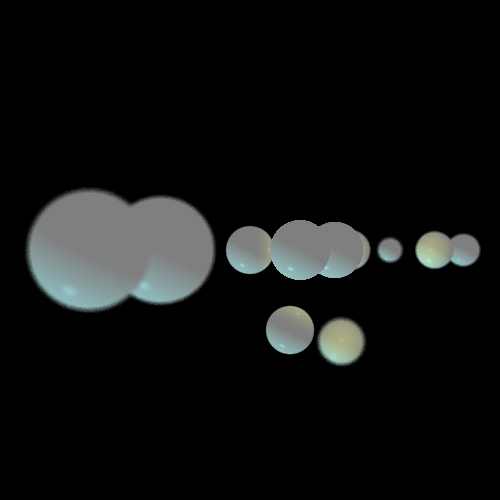
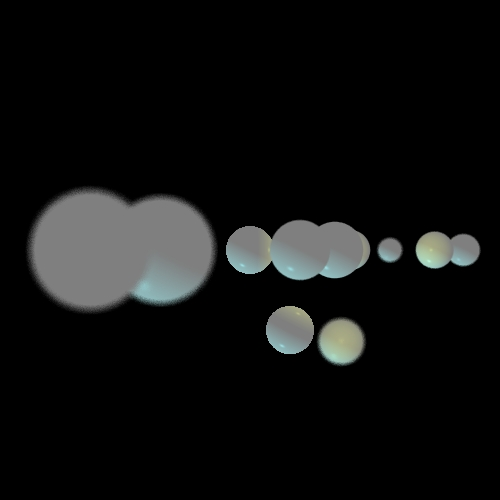
DOF improving image DOF

diff --git a/src/elements/Camera.java b/src/elements/Camera.java
@@ -2,7 +2,6 @@ package elements;
 
 import primitives.*;
 import static primitives.Util.*;
-
 import java.util.LinkedList;
 import java.util.List;
 import java.util.Random;
@@ -24,7 +23,9 @@ public class Camera {
 	private static final Random RAND = new Random();
 
 	/**
-	 * ctor for camera get the location and make the right vector.
+	 * ctor for camera get the location of the camera, get the toward vector(vTo)
+	 * and vUp and create the vRight vector.there is no Depth of filed effect if we
+	 * call to this ctor .
 	 * 
 	 * @param p0  Camera location
 	 * @param vTo The direction to the view plane
@@ -35,14 +36,16 @@ public class Camera {
 	}
 
 	/**
-	 * ctor for camera get the location and make the right vector.
+	 * ctor for camera get the location of the camera, get the toward vector(vTo)
+	 * and vUp and create the vRight vector.and get the parameter to Depth of filed
+	 * effect.
 	 * 
 	 * @param p0            Camera location
 	 * @param vTo           The direction to the view plane
 	 * @param vUp           direction to up
-	 * @param focalDistance
-	 * @param aperture
-	 * @param numOfRays
+	 * @param focalDistance distance of focal plane from the view plane
+	 * @param aperture      the size of aperture (zamzam in Hebrew)
+	 * @param numOfRays     to generate beam of rays
 	 */
 	public Camera(Point3D p0, Vector vTo, Vector vUp, double focalDistance, double aperture, int numOfRays) {
 		// checking if vTo orthogonal to vUp
@@ -57,57 +60,83 @@ public class Camera {
 		this.numOfRays = numOfRays;
 	}
 
-	public List<Ray> constructbeamOfRaysThroughPixels(int nX, int nY, int j, int i, double screenDistance,
+	/**
+	 * generate a beam of rays in each pixel,all the rays are from the pixel in view
+	 * plane to focal point.
+	 * 
+	 * @param nX             number of pixels in axis x.
+	 * @param nY             number of pixels in axis y.
+	 * @param j              the pixel in y axis.
+	 * @param i              the pixel in x axis.
+	 * @param screenDistance the distance of the view plane from camera.
+	 * @param screenWidth    the width of screen.
+	 * @param screenHeight   the height of screen.
+	 * 
+	 * @return list of rays that start at the view plane to the focal points.
+	 */
+	public List<Ray> constructBeamOfRaysThroughPixels(int nX, int nY, int j, int i, double screenDistance,
 			double screenWidth, double screenHeight) {
 		List<Ray> result = new LinkedList<Ray>();
-		Point3D pij = getViewPlanePoint(nX, nY, j, i, screenDistance*0.5, screenWidth*0.5, screenHeight*0.5);
+		Point3D pij;// the point in pixel i,j in the view plane.
+		if (numOfRays == 1) {
+			// there is no DOF effect so we want the rays start before view plane.
+			pij = getViewPlanePoint(nX, nY, j, i, screenDistance * 0.5, screenWidth * 0.5, screenHeight * 0.5);
+		} else {
+			// there is DOF.
+			pij = getViewPlanePoint(nX, nY, j, i, screenDistance, screenWidth, screenHeight);
+		}
+		// the direction from camera to pixel i,j.
 		Vector vToFocal = pij.subtract(p0).normalize();
 		// add to list the ray through pixel i,j from view plane
-		result.add(new Ray(pij, vToFocal));
-		if (numOfRays <= 1 || Util.isZero(aperture))
+		result.add(new Ray(pij, vToFocal));// this is the central ray throw the pixel that start at view plane.
+		if (numOfRays == 1 || Util.isZero(aperture))// there is no DOF effect
 			return result;
-		// to create the focal plane "plane" and not circular we divide in the cosine
+		// to create plane focal and not domed, we divide in the cosine
 		// angle (dotProfuct) to increase the distance.
 		Point3D focalPoint = pij.add(vToFocal.scale(focalDistance / vTo.dotProduct(vToFocal)));
+		// k start from 1. the first ray is already concluded
 		for (int k = 1; k < numOfRays; k++) {
-			Point3D randPointVp = randomPoint(pij);
+			Point3D randPointVp = randomPoint(pij);// random point on the view plane
 			result.add(new Ray(randPointVp, focalPoint.subtract(randPointVp)));
 		}
 		return result;
 	}
 
 	/**
+	 * The function calculate the point on the view plane at pixel j,i.
 	 * 
-	 * @param nX
-	 * @param nY
-	 * @param j
-	 * @param i
-	 * @param screenDistance
-	 * @param screenWidth
-	 * @param screenHeight
+	 * @param nX             number of pixels in axis x.
+	 * @param nY             number of pixels in axis y.
+	 * @param j              the pixel in y axis.
+	 * @param i              the pixel in x axis.
+	 * @param screenDistance the distance of the view plane from camera.
+	 * @param screenWidth    the width of screen.
+	 * @param screenHeight   the height of screen.
 	 * @return
 	 */
 	private Point3D getViewPlanePoint(int nX, int nY, int j, int i, double screenDistance, double screenWidth,
 			double screenHeight) {
-		Point3D viewPlanePoint = p0.add(vTo.scale(screenDistance));
-		double rY = screenHeight / nY;
-		double rX = screenWidth / nX;
+		Point3D viewPlanePoint = p0.add(vTo.scale(screenDistance));// the central point on the view plane.
+		double rY = screenHeight / nY;// the height of each pixel.
+		double rX = screenWidth / nX;// the width of each pixel.
 
-		double yi = ((i - nY / 2d) * rY + rY / 2d);
+		double yi = ((i - nY / 2d) * rY + rY / 2d);// how much to move.
 		double xj = ((j - nX / 2d) * rX + rX / 2d);
 
-		return movePoint(xj, yi, viewPlanePoint);
+		return changeLocationPoint(xj, yi, viewPlanePoint);
 	}
 
 	/**
+	 * scatter randomly the rays we created, in interval of aperture.
 	 * 
-	 * @param pij
-	 * @return
+	 * @param pij center of pixel
+	 * @return randomly point in the pixel
 	 */
 	private Point3D randomPoint(Point3D pij) {
+		// random number in interval of the aperture.[-aperture/2,aperture/2].
 		double x = (RAND.nextDouble() - 0.5) * aperture;
 		double y = (RAND.nextDouble() - 0.5) * aperture;
-		return movePoint(x, y, pij);
+		return changeLocationPoint(x, y, pij);
 	}
 
 	/**
@@ -118,7 +147,7 @@ public class Camera {
 	 * @param p the point to move
 	 * @return the new point after moved i,j.
 	 */
-	private Point3D movePoint(Double j, Double i, Point3D p) {
+	private Point3D changeLocationPoint(Double j, Double i, Point3D p) {
 		if (!Util.isZero(j)) {
 			p = p.add(vRight.scale(j));
 		}

diff --git a/src/renderer/Render.java b/src/renderer/Render.java
@@ -63,51 +63,23 @@ public class Render {
 	 * create the buffer image by the geometries in the scene.
 	 * 
 	 */
-//	public void renderImage() {
-//		Color background = scene.getBackground();
-//		Camera camera = scene.getCamera();
-//		java.awt.Color backgroundColor = background.getColor();
-//
-//		// the width and height of the view plane.
-//		int width = (int) imageWriter.getWidth();
-//		int height = (int) imageWriter.getHeight();
-//
-//		// the number of pixels in the image
-//		int Nx = imageWriter.getNx();
-//		int Ny = imageWriter.getNy();
-//		// ray from camera through the pixel.
-//		Ray ray;
-//		GeoPoint closestPoint;
-//		for (int i = 0; i < Ny; i++) {
-//			for (int j = 0; j < Nx; j++) {
-//				ray = camera.constructRayThroughPixel(Nx, Ny, j, i, scene.getDistance(), width, height);
-//				closestPoint = findClosestIntersection(ray);
-//				imageWriter.writePixel(j, i,
-//						closestPoint == null ? backgroundColor : calcColor(closestPoint, ray).getColor());
-//			}
-//		}
-//	}
 	public void renderImage() {
 		Color background = scene.getBackground();
 		Camera camera = scene.getCamera();
 		Color backgroundColor = background;
-
-		// the width and height of the view plane.
 		int width = (int) imageWriter.getWidth();
 		int height = (int) imageWriter.getHeight();
-
-		// the number of pixels in the image
+		// get the number of pixels in the image
 		int Nx = imageWriter.getNx();
 		int Ny = imageWriter.getNy();
-		// ray from camera through the pixel.
 		List<Ray> rays;
 		GeoPoint closestPoint;
 		Color sumColor;
 		for (int i = 0; i < Ny; i++) {
-			System.out.println(i);
+			System.out.println(i);// help admin to follow running process
 			for (int j = 0; j < Nx; j++) {
-				rays = camera.constructbeamOfRaysThroughPixels(Nx, Ny, j, i, scene.getDistance(), width, height);
-				sumColor = Color.BLACK;//initila
+				rays = camera.constructBeamOfRaysThroughPixels(Nx, Ny, j, i, scene.getDistance(), width, height);
+				sumColor = Color.BLACK;// initialized to RGB vector (0,0,0)
 				for (Ray ray : rays) {
 					closestPoint = findClosestIntersection(ray);
 					Color color = closestPoint == null ? backgroundColor : calcColor(closestPoint, ray);

diff --git a/src/unittests/DepthOfFiledTest.java b/src/unittests/DepthOfFiledTest.java
@@ -8,7 +8,7 @@ import renderer.*;
 import scene.Scene;
 
 /**
- * Unit tests for Depth of filed attribute.
+ * Unit tests for Depth of filed effect.
  * 
  * @author E&Y
  *
@@ -72,6 +72,32 @@ public class DepthOfFiledTest {
 				new PointLight(new Color(103, 110, 13), new Point3D(0, -100, 0), 1, 0, 0));
 
 		ImageWriter imageWriter = new ImageWriter("DepthOfFiled2", 250, 250, 500, 500);
+		Render render = new Render(imageWriter, scene);
+
+		render.renderImage();
+		render.writeToImage();
+	}
+
+	@Test
+	public void DofTest3() {
+		Scene scene = new Scene("DOF");
+		scene.setCamera(new Camera(new Point3D(-1000, 0, 0), new Vector(1, 0, 0), new Vector(0, 0, 1), 600, 5, 5));
+		scene.setDistance(1000);
+		scene.setBackground(Color.BLACK);
+		scene.setAmbientLight(new AmbientLight(new Color(132, 124, 65), 0));
+
+		scene.addGeometries(
+				new Cylinder(new Ray(new Point3D(0, 50, 0), new Vector(0, 0, 1)), 5, 25,
+						new Color(java.awt.Color.DARK_GRAY), new Material(0.5, 0.5, 1)),
+				new Cylinder(new Ray(new Point3D(25, 50, 0), new Vector(0, 0, 1)), 5, 25,
+						new Color(java.awt.Color.DARK_GRAY), new Material(0.5, 0.5, 1)),
+				new Cylinder(new Ray(new Point3D(50, 50, 0), new Vector(0, 0, 1)), 5, 25,
+						new Color(java.awt.Color.DARK_GRAY), new Material(0.5, 0.5, 1)));
+
+		scene.addLights(new DirectionalLight(new Color(48, 170, 176), new Vector(0, -1, 2)),
+				new PointLight(new Color(103, 110, 13), new Point3D(0, -100, 0), 1, 0, 0));
+
+		ImageWriter imageWriter = new ImageWriter("DepthOfFiled3", 250, 250, 500, 500);
 		Render render = new Render(imageWriter, scene);
 
 		render.renderImage();
